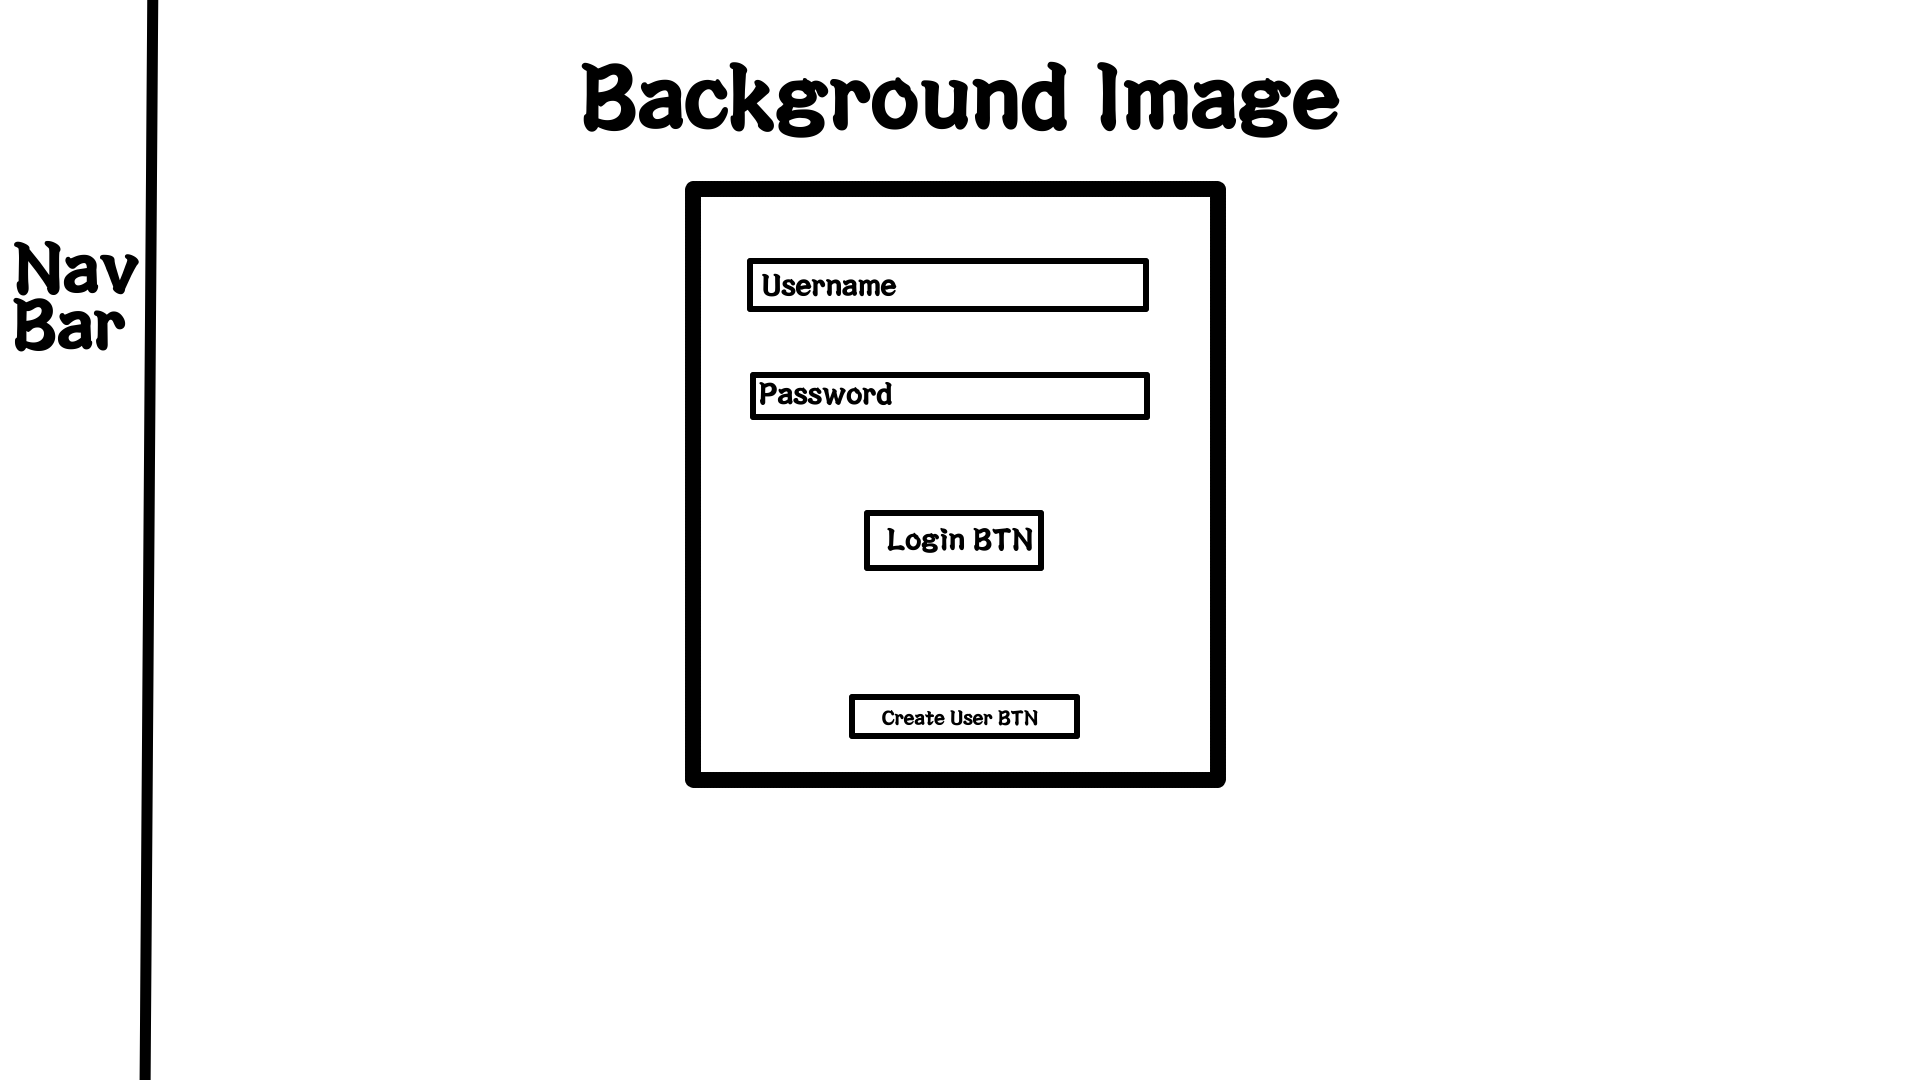
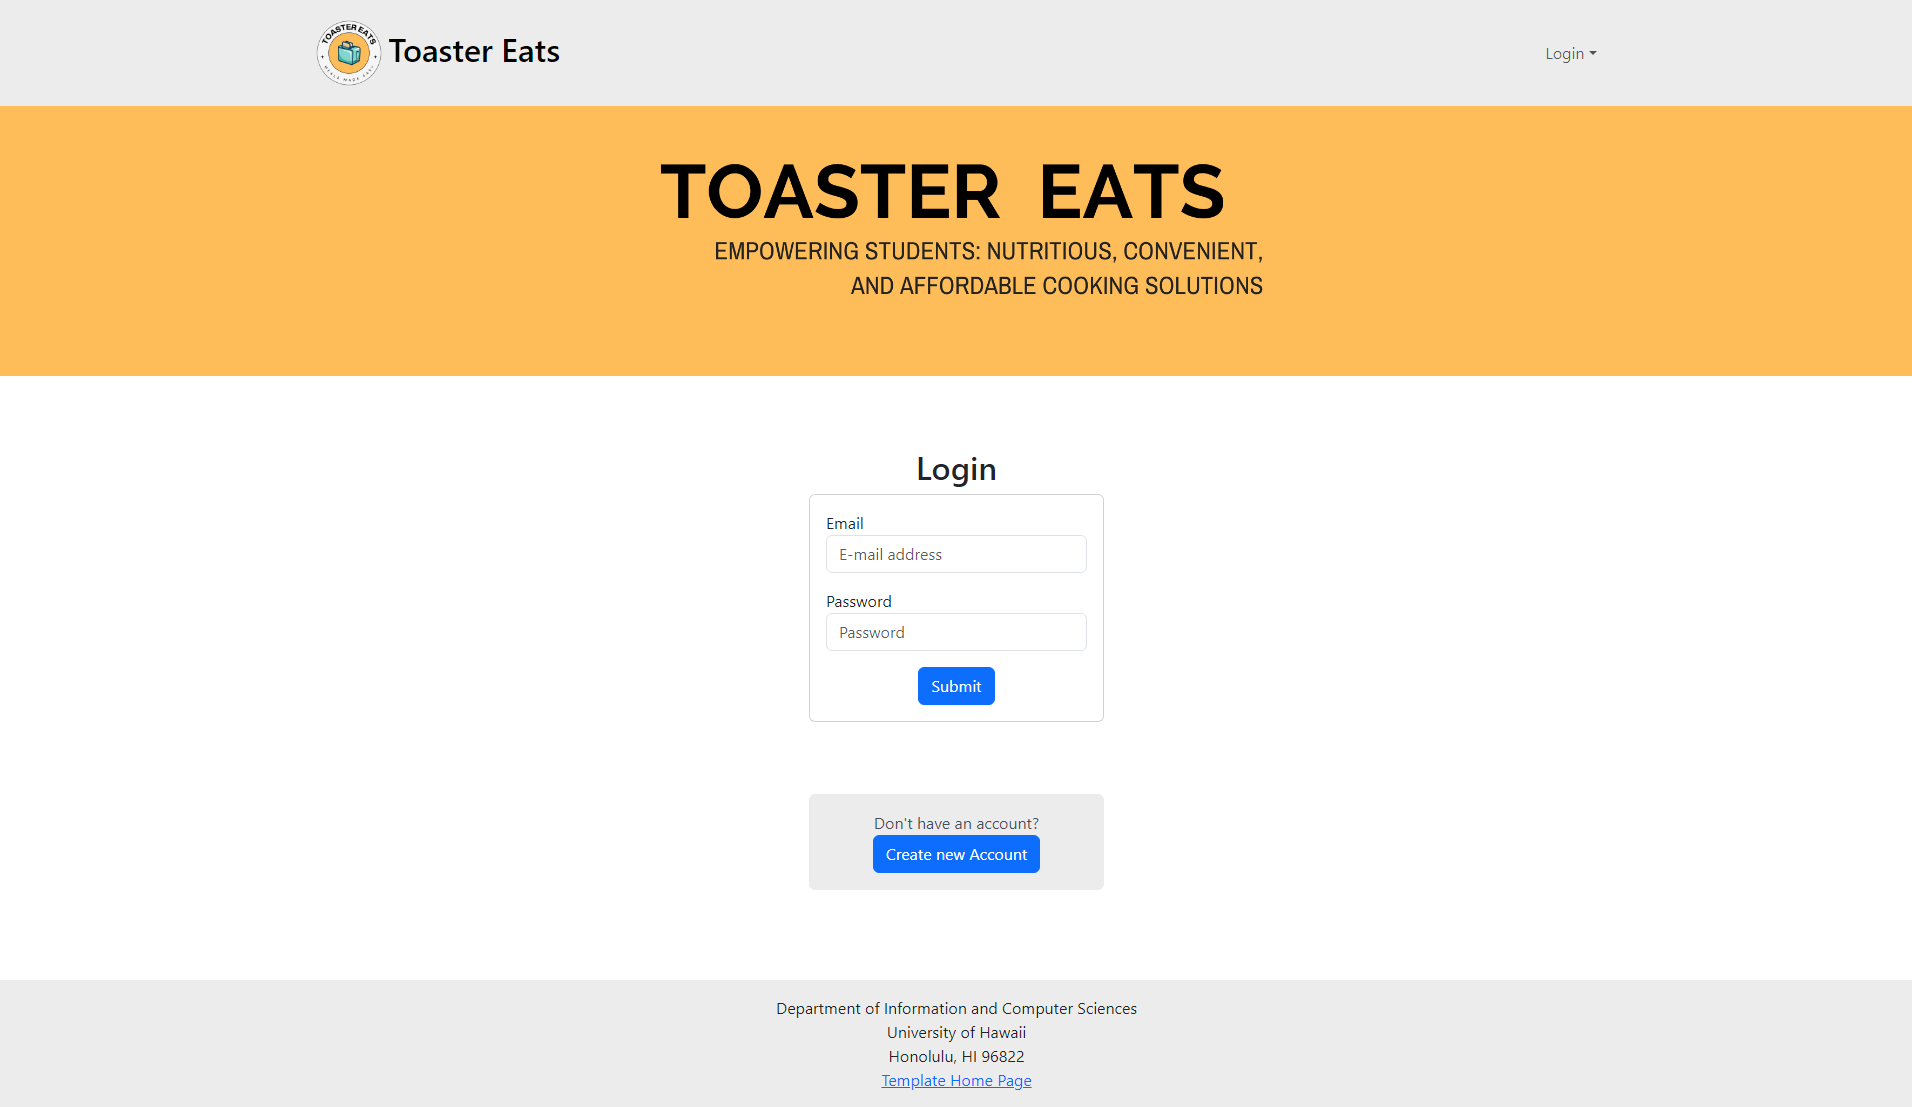
Updated Login and Sign Up Page Images and content

Changed region(s): [[0.0, 0.0, 1.0, 1.0], [0.4012, 0.8861, 0.5863, 1.0], [0.8023, 0.0306, 0.8332, 0.0611]]

diff --git a/index.md b/index.md
@@ -27,9 +27,14 @@ The landing page gives users quick access to the rest of the site's pages with a
 ![Landing Page](images/landing_page.png)
 
 ### Login Page
-The login page presents a login interface as well as a way to create a new user profile.
+The login page presents a login interface for users to login to their profiles as well as a quick way to go to the sign up page to create a new account.
 
 ![Login Page](images/Login_Page.png)
+
+### Sign Up Page
+The sign up page allows new users to create a new account on Toaster Eats as well as a way to go back to the login page quickly.
+
+![Sign Up Page](images/SignUp_Page.png)
 
 ### User Page
 The User Page displays the User's profile picture as well as relevant user information (Tentative, content may be changed).
